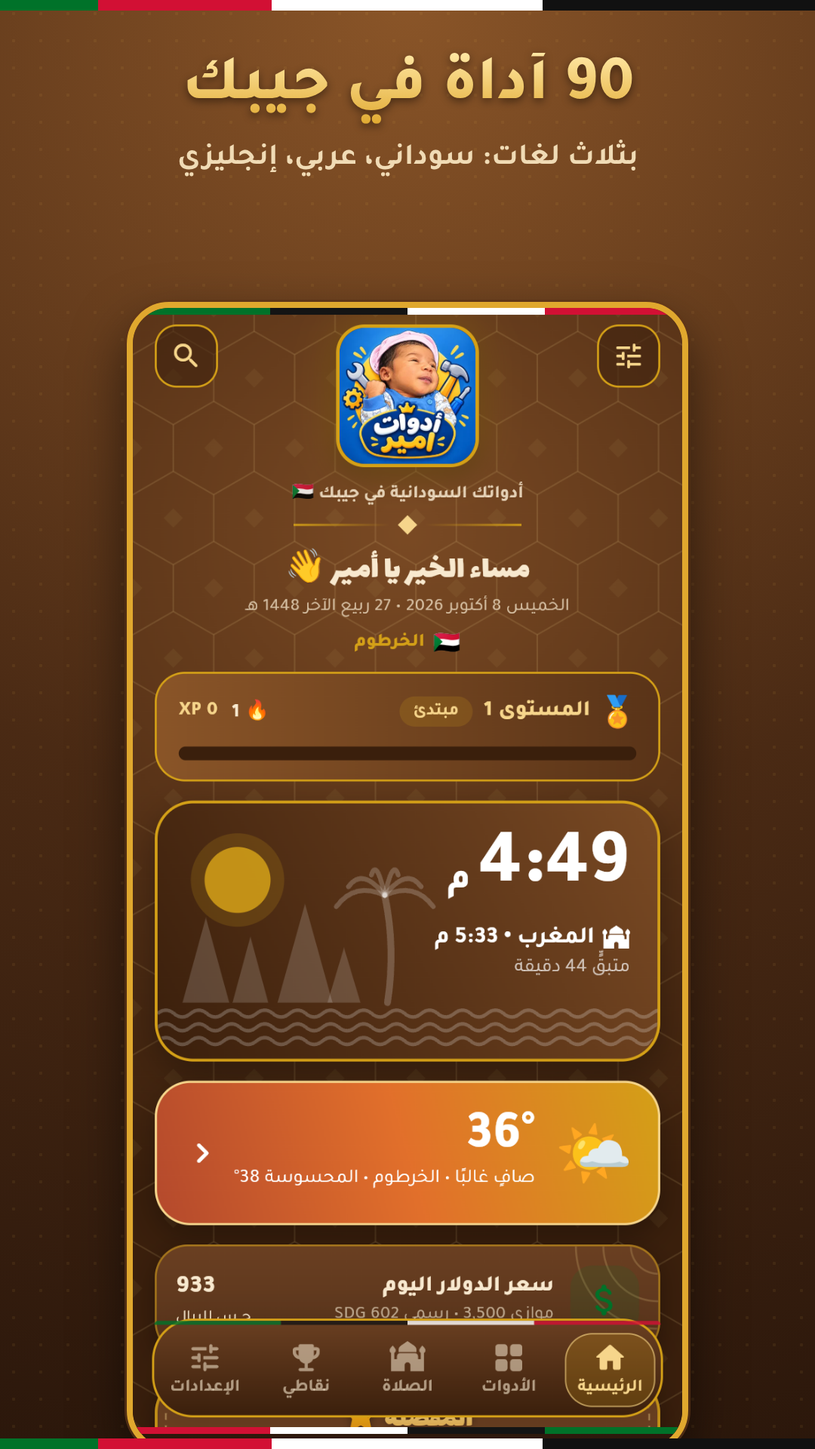
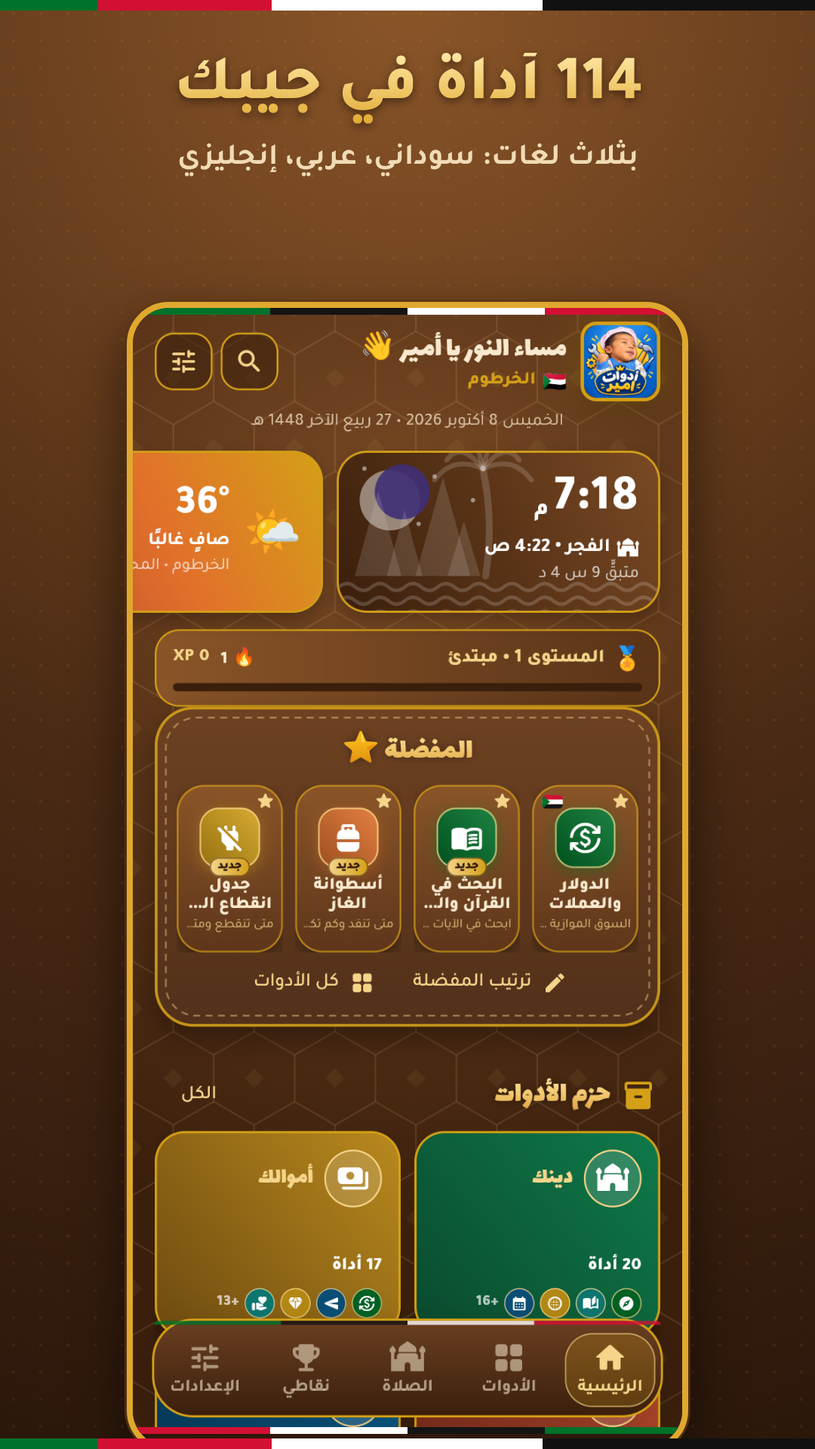
Store listing for 1.4.0: 114 tools, new screenshots, release notes; privacy policy covers Qur'an/hadith downloads
Claude-Session: https://claude.ai/code/session_01JTDZZY39xXosTgSmYpfkyN

diff --git a/amir_tools/store/privacy-policy.html b/amir_tools/store/privacy-policy.html
@@ -21,7 +21,7 @@
 
 <section>
   <h1>سياسة الخصوصية: أدوات أمير</h1>
-  <p class="muted">آخر تحديث: 7 أكتوبر 2026 • التطبيق: Ameer Tools (com.albushra.amir_tools) • المطوّر: البشرى للتقنية</p>
+  <p class="muted">آخر تحديث: 8 أكتوبر 2026 • التطبيق: Ameer Tools (com.albushra.amir_tools) • المطوّر: البشرى للتقنية</p>
 
   <h2>الخلاصة</h2>
   <p>لا نطلب تسجيل دخول، ولا نعرض إعلانات، ولا نستخدم أدوات تتبّع أو تحليلات، ولا نملك خوادم تُحفظ فيها بياناتك. كل ما تُدخله في التطبيق يُحفظ على جهازك فقط.</p>
@@ -34,7 +34,7 @@
   <ul>
     <li><b>Open-Meteo</b> (open-meteo.com): لجلب الطقس وجودة الهواء والبحث عن المدن. يُرسل إليها اسم المدينة أو إحداثياتها التقريبية فقط.</li>
     <li><b>ExchangeRate-API</b> (open.er-api.com): لجلب أسعار العملات الرسمية. لا تُرسل إليها أي بيانات عنك.</li>
-    <li><b>GitHub</b> (raw.githubusercontent.com): لتنزيل ملفات اللغة الخاصة بميزة استخراج النص من الصور، مرة واحدة فقط.</li>
+    <li><b>GitHub</b> (raw.githubusercontent.com): لتنزيل ملفات اللغة الخاصة بميزة استخراج النص من الصور، ونص المصحف والتفاسير وكتب الحديث عند أول استخدام لها فقط. لا يُرسل إليها أي بيانات عنك.</li>
   </ul>
   <p>كل الاتصالات مشفّرة عبر HTTPS.</p>
 
@@ -59,7 +59,7 @@
 
 <section dir="ltr" lang="en">
   <h1>Privacy Policy: Ameer Tools</h1>
-  <p class="muted">Last updated: 7 October 2026 • App: Ameer Tools (com.albushra.amir_tools) • Developer: Al-Bushra Technology</p>
+  <p class="muted">Last updated: 8 October 2026 • App: Ameer Tools (com.albushra.amir_tools) • Developer: Al-Bushra Technology</p>
 
   <h2>Summary</h2>
   <p>No sign-in, no ads, no tracking or analytics SDKs, and no servers that store your data. Everything you enter in the app stays on your device.</p>
@@ -72,7 +72,7 @@
   <ul>
     <li><b>Open-Meteo</b> (open-meteo.com): weather, air quality and city search. Only the city name or its approximate coordinates are sent.</li>
     <li><b>ExchangeRate-API</b> (open.er-api.com): official currency rates. No data about you is sent.</li>
-    <li><b>GitHub</b> (raw.githubusercontent.com): one-time download of language data for the text-from-image (OCR) feature.</li>
+    <li><b>GitHub</b> (raw.githubusercontent.com): one-time downloads of OCR language data and of the Qur'an text, tafsir and hadith books when you first open those tools. No data about you is sent.</li>
   </ul>
   <p>All connections are encrypted with HTTPS.</p>
 

diff --git a/docs/privacy-policy.html b/docs/privacy-policy.html
@@ -21,7 +21,7 @@
 
 <section>
   <h1>سياسة الخصوصية: أدوات أمير</h1>
-  <p class="muted">آخر تحديث: 7 أكتوبر 2026 • التطبيق: Ameer Tools (com.albushra.amir_tools) • المطوّر: البشرى للتقنية</p>
+  <p class="muted">آخر تحديث: 8 أكتوبر 2026 • التطبيق: Ameer Tools (com.albushra.amir_tools) • المطوّر: البشرى للتقنية</p>
 
   <h2>الخلاصة</h2>
   <p>لا نطلب تسجيل دخول، ولا نعرض إعلانات، ولا نستخدم أدوات تتبّع أو تحليلات، ولا نملك خوادم تُحفظ فيها بياناتك. كل ما تُدخله في التطبيق يُحفظ على جهازك فقط.</p>
@@ -34,7 +34,7 @@
   <ul>
     <li><b>Open-Meteo</b> (open-meteo.com): لجلب الطقس وجودة الهواء والبحث عن المدن. يُرسل إليها اسم المدينة أو إحداثياتها التقريبية فقط.</li>
     <li><b>ExchangeRate-API</b> (open.er-api.com): لجلب أسعار العملات الرسمية. لا تُرسل إليها أي بيانات عنك.</li>
-    <li><b>GitHub</b> (raw.githubusercontent.com): لتنزيل ملفات اللغة الخاصة بميزة استخراج النص من الصور، مرة واحدة فقط.</li>
+    <li><b>GitHub</b> (raw.githubusercontent.com): لتنزيل ملفات اللغة الخاصة بميزة استخراج النص من الصور، ونص المصحف والتفاسير وكتب الحديث عند أول استخدام لها فقط. لا يُرسل إليها أي بيانات عنك.</li>
   </ul>
   <p>كل الاتصالات مشفّرة عبر HTTPS.</p>
 
@@ -59,7 +59,7 @@
 
 <section dir="ltr" lang="en">
   <h1>Privacy Policy: Ameer Tools</h1>
-  <p class="muted">Last updated: 7 October 2026 • App: Ameer Tools (com.albushra.amir_tools) • Developer: Al-Bushra Technology</p>
+  <p class="muted">Last updated: 8 October 2026 • App: Ameer Tools (com.albushra.amir_tools) • Developer: Al-Bushra Technology</p>
 
   <h2>Summary</h2>
   <p>No sign-in, no ads, no tracking or analytics SDKs, and no servers that store your data. Everything you enter in the app stays on your device.</p>
@@ -72,7 +72,7 @@
   <ul>
     <li><b>Open-Meteo</b> (open-meteo.com): weather, air quality and city search. Only the city name or its approximate coordinates are sent.</li>
     <li><b>ExchangeRate-API</b> (open.er-api.com): official currency rates. No data about you is sent.</li>
-    <li><b>GitHub</b> (raw.githubusercontent.com): one-time download of language data for the text-from-image (OCR) feature.</li>
+    <li><b>GitHub</b> (raw.githubusercontent.com): one-time downloads of OCR language data and of the Qur'an text, tafsir and hadith books when you first open those tools. No data about you is sent.</li>
   </ul>
   <p>All connections are encrypted with HTTPS.</p>
 

diff --git a/amir_tools/lib/screens/privacy_screen.dart b/amir_tools/lib/screens/privacy_screen.dart
@@ -50,8 +50,8 @@ class PrivacyScreen extends StatelessWidget {
               'Open-Meteo: weather, air quality and city search. Only the city name or its approximate coordinates are sent.'),
           t('ExchangeRate-API: لأسعار العملات الرسمية. ما بنرسل ليها أي حاجة عنك.', 'ExchangeRate-API: لجلب أسعار العملات الرسمية. لا تُرسل إليها أي بيانات عنك.',
               'ExchangeRate-API: official currency rates. No data about you is sent.'),
-          t('GitHub: لتنزيل ملفات اللغة لاستخراج النص من الصور، مرة واحدة بس.', 'GitHub: لتنزيل ملفات اللغة الخاصة باستخراج النص من الصور، مرة واحدة فقط.',
-              'GitHub: one-time download of language data for text-from-image (OCR).'),
+          t('GitHub: لتنزيل ملفات اللغة لاستخراج النص، ونص المصحف والتفاسير والأحاديث، أول مرة بس.', 'GitHub: لتنزيل ملفات اللغة لاستخراج النص، ونص المصحف والتفاسير وكتب الحديث، عند أول استخدام فقط.',
+              'GitHub: one-time downloads of OCR language data and the Qur\'an, tafsir and hadith texts.'),
           t('كل الاتصالات مشفّرة (HTTPS).', 'كل الاتصالات مشفّرة عبر HTTPS.', 'All connections are encrypted with HTTPS.'),
         ]
       ),
@@ -96,7 +96,7 @@ class PrivacyScreen extends StatelessWidget {
       child: Scaffold(
         appBar: AppBar(title: Text(t('سياسة الخصوصية', 'سياسة الخصوصية', 'Privacy policy'))),
         body: ToolList(children: [
-          Text('${tr('آخر تحديث', 'Last updated')}: 2026-10-07 • Ameer Tools (com.albushra.amir_tools)',
+          Text('${tr('آخر تحديث', 'Last updated')}: 2026-10-08 • Ameer Tools (com.albushra.amir_tools)',
               textAlign: TextAlign.center, style: const TextStyle(fontSize: 12)),
           const SizedBox(height: 10),
           for (final (icon, color, title, paras) in sections)

diff --git a/amir_tools/store/PLAY_STORE_LISTING.md b/amir_tools/store/PLAY_STORE_LISTING.md
@@ -9,8 +9,8 @@
 | البند | القيمة |
 |---|---|
 | اسم الحزمة (Package name) | `com.albushra.amir_tools` (لا يتغيّر بعد أول رفع) |
-| رقم النسخة (versionName) | **1.3.0** |
-| رمز النسخة (versionCode) | **4** (لازم يزيد مع كل رفع جديد: 5، 6، …) |
+| رقم النسخة (versionName) | **1.4.0** |
+| رمز النسخة (versionCode) | **6** (لازم يزيد مع كل رفع جديد: 7، 8، …) |
 | اسم التطبيق على الهاتف | `Ameer Tools 🔧` |
 | اسم التطبيق في المتجر (Title) | **`Ameer Tools - أدوات أمير`** (24 حرف) |
 | اسم المطوّر | البشرى للتقنية / Al-Bushra Technology |
@@ -27,7 +27,7 @@
 **بدائل للعنوان (كلها أقل من 30 حرف):**
 - `Ameer Tools - أدوات أمير` ← المقترح
 - `أدوات أمير - Ameer Tools`
-- `Ameer Tools: 90 أداة في جيبك`
+- `Ameer Tools: 114 أداة في جيبك`
 
 ---
 
@@ -35,12 +35,12 @@
 
 **عربي:**
 ```
-90 أداة في تطبيق واحد: صلاة، عملات، غاز، قطوعات، صحة، ودجت، بثلاث لغات
+114 أداة في تطبيق واحد: قرآن، صلاة، عملات، غاز، صحة، أمان، ودجت، بثلاث لغات
 ```
 
 **English:**
 ```
-90 handy tools in one app: prayer, currency, gas, power cuts, health & widgets
+114 tools in one app: Qur'an, prayer, currency, gas, health, safety & widgets
 ```
 
 ---
@@ -49,52 +49,44 @@
 
 ### عربي
 ```
-أدوات أمير: 90 أداة مفيدة في تطبيق واحد، بطابع سوداني أصيل وألوان التراث، وتشتغل في أي مكان في العالم.
+أدوات أمير: 114 أداة مفيدة في تطبيق واحد، مرتّبة في 6 حزم، بطابع سوداني أصيل وألوان التراث، وتشتغل في أي مكان في العالم.
 بثلاث لغات: سوداني، عربي فصيح، وإنجليزي. وأغلب الأدوات تشتغل بدون إنترنت.
 
 🧩 ودجت للشاشة الرئيسية
 • أدواتك المفضلة • الصلاة القادمة مع عدّاد تنازلي • أسطوانة الغاز • قطوعات الكهرباء • سعر الدولار
 
-🕌 الدين
-• مواقيت الصلاة لأي مدينة (11 طريقة حساب) وتنبيه الأذان، والقبلة
-• الأذكار، والمسبحة، ومكتبة الأدعية، وأسماء الله الحسنى
-• ختمة القرآن، وحفظ القرآن ومراجعته، وثلث الليل الأخير
-• متتبع الصيام، والمواقيت الشهرية، ومحوّل التواريخ (هجري، قبطي، إثيوبي)، والمناسبات
-• المواريث، والزكاة، والأضحية والعقيقة، والفدية والكفارات
+🕌 دينك
+• مواقيت الصلاة لأي مدينة (11 طريقة حساب) وتنبيه الأذان، والقبلة، والأذكار، والمسبحة، والأدعية، وأسماء الله الحسنى
+• البحث في القرآن مع التفسير الميسّر والجلالين، والأحاديث (الأربعون النووية والقدسية والكتب الستة والموطأ) مع درجة الحديث
+• ختمة القرآن، وحفظ القرآن ومراجعته، وبطاقات مشاركة الآيات والأذكار
+• دليل الحج والعمرة، وثلث الليل الأخير، ومتتبع الصيام، ومحوّل التواريخ (هجري، قبطي، إثيوبي)
+• المواريث، والزكاة، والأضحية والعقيقة، والفدية والكفارات، والصدقة الشهرية
 
-💰 المال والسوق
+💰 فلوسك
 • الدولار والعملات بالسعر الموازي والرسمي، وتحويلات المغتربين، والذهب
-• ميزانية الشهر، وميزانية الزفاف، ودفتر المحل (المخزون والأرباح)
-• الأقساط والمرابحة، والنسب والضريبة، والكهرباء والطاقة الشمسية
-• تقسيم الحساب، وتفقيط المبالغ، وأيهما أوفر، وتكلفة الرحلة، ومحوّل الوحدات
+• ميزانية الشهر، والادخار للأهداف، وميزانية الزفاف، ودفتر المحل، ومقارنة سلة المشتريات
+• الأقساط والمرابحة، والنسب والضريبة، والكهرباء والطاقة الشمسية، وتقسيم الحساب، وتفقيط المبالغ
 
-🏠 البيت والعربية
-• أسطوانة الغاز: متى تنفد وكم تكلّف
-• جدول انقطاع الكهرباء مع تنبيه قبل القطع
-• المولّد والوقود، وصيانة السيارة، وصلاحية مخزن البيت
-• قائمة المشتريات، والفواتير الشهرية، وحاسبة مواد البناء، وحاسبة الزراعة
+🏠 بيتك وأسرتك
+• أسطوانة الغاز، وجدول انقطاع الكهرباء، والمولّد والوقود، وصيانة السيارة، وصلاحية مخزن البيت
+• مخطط وجبات الأسرة بأكلات سودانية، وقائمة المشتريات، والفواتير الشهرية، ومواد البناء، والزراعة
+• السجل الصحي العائلي، واللقاحات والفحوصات، ورعاية كبار السن، ومواعيد الدواء، والحمل، ونمو الطفل
+• الإسعافات الأولية، وأرقام الطوارئ، وسجل السكر والضغط، والماء، والنوم
+• العادات، والمهام، والمصروفات، والديون، والصندوق، والملاحظات
 
-💼 الشغل والغربة
-• الراتب ونهاية الخدمة، وتذكير انتهاء المستندات، وعبارات المغترب، وفاتورة سريعة، وقائمة تجهيز السفر
+💼 شغلك وقرايتك
+• منشئ السيرة الذاتية (PDF عربي وإنجليزي)، والراتب ونهاية الخدمة، وتذكير المستندات، وفاتورة سريعة
+• عبارات المغترب، والمصطلحات الرسمية، وروابط الجهات الرسمية، ومخطط الرحلة، وقائمة تجهيز السفر
+• جدول المذاكرة، وبطاقات المذاكرة، ونسبة الشهادة السودانية، وجدول الضرب، وقاموس اللهجة السودانية
 
-❤ الصحة والعائلة
-• حاسبة الصحة، والحمل، ونمو الطفل، ومواعيد الدواء، وسجل السكر والضغط، والماء، والنوم والمزاج
-
-📚 التعليم والترفيه
-• نسبة الشهادة السودانية، وبطاقات المذاكرة، وجدول الضرب للأطفال
+☀ يومك وونستك
+• حاسبة العمر بالتفصيل، والآلة الحاسبة، والمؤقت، والتركيز، والقرعة، وساعات العالم، والطقس والغبار، والعطل الرسمية، والأمثال السودانية
 • حاسبة نقاط الورق (كونكان وهاند)، والدومينو وتقسيم الفرق
 
-☀ اليوميات والتنظيم
-• حاسبة العمر بالتفصيل الدقيق، والآلة الحاسبة، والمؤقت، والتركيز، والقرعة، وساعات العالم، والمعدل الدراسي، والطقس والغبار، والأمثال السودانية
-• متتبع العادات، والمهام، والمصروفات، والديون، والصندوق، والعدّاد، والملاحظات السريعة
-
-✍ النصوص والصور
-• مساعد الكاتب للقصص والشخصيات والفصول
-• استخراج النص من الصور، وزخرفة النصوص، والصور إلى PDF، ومسجّل الصوت
-• رمز QR، وكلمات السر، والخزنة السرية، وضغط الصور
-
-📱 الجهاز
-• الكشاف، والبوصلة، وميزان الماء، والمسطرة، ومقياس الضوضاء، والمرآة، ومعلومات هاتفك
+🛡 تقنية وأمان
+• فاحص الروابط المزيّفة، وتنبيهات الاحتيال، والتحقق من الأخبار، وحماية حساباتك
+• استخراج النص من الصور، وزخرفة النصوص، والصور إلى PDF، ومسجّل الصوت، ومساعد الكاتب
+• رمز QR، وكلمات السر، والخزنة السرية، وضغط الصور، والكشاف، والبوصلة، والمرآة، والمسطرة
 
 ⭐ نقاط ومستويات وإنجازات، ومفضلة، وقفل برقم سري، ونسخة احتياطية، ووضع ليلي.
 
@@ -105,52 +97,44 @@
 
 ### English
 ```
-Ameer Tools: 90 useful tools in one app, with a warm Sudanese heritage design, and it works anywhere in the world.
+Ameer Tools: 114 useful tools in one app, organised into 6 bundles, with a warm Sudanese heritage design. Works anywhere in the world.
 Three languages: Sudanese Arabic, Standard Arabic and English. Most tools work offline.
 
 🧩 HOME-SCREEN WIDGETS
 • Favourite tools • Next prayer with live countdown • Gas cylinder • Power cuts • Dollar rate
 
 🕌 FAITH
-• Prayer times for any city (11 methods) with adhan alerts, and qibla
-• Adhkar, tasbih, duas library and the 99 Names of Allah
-• Qur'an khatma, Qur'an memorization & review, last third of the night
-• Fasting tracker, monthly timetable, date converter (Hijri, Coptic, Ethiopian), occasions
-• Inheritance, zakat, udhiya & aqiqa, fidya & kaffarat
+• Prayer times for any city (11 methods) with adhan alerts, qibla, adhkar, tasbih, duas, 99 Names
+• Qur'an search with Tafsir al-Muyassar & al-Jalalayn; hadith collections (Nawawi's 40, Qudsi, the six books, Muwatta) with gradings
+• Khatma planner, Qur'an memorization & review, verse and dhikr share cards
+• Hajj & Umrah guide, last third of the night, fasting tracker, date converter (Hijri, Coptic, Ethiopian)
+• Inheritance, zakat, udhiya & aqiqa, fidya & kaffarat, monthly sadaqa planner
 
 💰 MONEY
 • Currencies with parallel and official rates, expat remittances, gold
-• Monthly budget, wedding budget, shop ledger (stock & profit)
-• Installments & murabaha, percent & tax, power & solar
-• Bill splitter, amount in words, best price, trip cost, unit converter
+• Monthly budget, savings goals, wedding budget, shop ledger, basket price compare
+• Installments & murabaha, percent & tax, power & solar, bill splitter, amount in words
 
-🏠 HOME & CAR
-• Gas cylinder: when it runs out and what it costs
-• Power-cut schedule with alerts before each cut
-• Generator & fuel, car maintenance, pantry expiry
-• Shopping list, monthly bills, building materials, farm calculator
+🏠 HOME & FAMILY
+• Gas cylinder, power-cut schedule, generator & fuel, car maintenance, pantry expiry
+• Family meal planner with Sudanese dishes, shopping list, monthly bills, building and farm calculators
+• Family health record, vaccines & check-ups, elder care, medicine reminders, pregnancy, child growth
+• First aid guide, emergency numbers, glucose & BP log, water, sleep
+• Habits, tasks, expenses, debts, savings circle, notes
 
-💼 WORK & ABROAD
-• Salary & end of service, document expiry reminders, expat phrasebook, quick invoice, travel packing list
+💼 WORK & STUDY
+• CV builder (Arabic & English PDF), salary & end of service, document reminders, quick invoice
+• Expat phrasebook, official terms glossary, official links, trip planner, travel packing list
+• Study planner, flashcards, Sudan school certificate %, times tables, Sudanese dialect dictionary
 
-❤ HEALTH & FAMILY
-• Health calculator, pregnancy, child growth, medicine reminders, glucose & BP log, water, sleep & mood
-
-📚 LEARNING & FUN
-• Sudan school certificate %, flashcards, times tables for kids
+☀ DAILY & FUN
+• Detailed age calculator, calculator, timer, focus, random draw, world clock, weather & dust, public holidays, Sudanese proverbs
 • Card game scores (Konkan, Hand), dominoes & team split
 
-☀ DAILY & ORGANISE
-• Detailed age calculator, calculator, timer, focus, random draw, world clock, GPA, weather & dust, Sudanese proverbs
-• Habits, tasks, expenses, debts, savings circle, tally counter, quick notes
-
-✍ TEXT & IMAGES
-• Writer's Studio for stories, characters and chapters
-• Text from image (OCR), text decoration, images to PDF, voice recorder
-• QR codes, passwords, secret vault, image compressor
-
-📱 DEVICE
-• Flashlight, compass, spirit level, ruler, noise meter, mirror, phone info
+🛡 TECH & SAFETY
+• Fake-link checker, scam alerts, news verification, account security
+• Text from image (OCR), text decoration, images to PDF, voice recorder, Writer's Studio
+• QR codes, passwords, secret vault, image compressor, flashlight, compass, mirror, ruler
 
 ⭐ Points, levels and achievements, favourites, PIN lock, backup and dark mode.
 
@@ -161,19 +145,24 @@ By Al-Bushra Technology.
 
 ---
 
-## 4) ملاحظات الإصدار (Release notes, 500 حرف لكل لغة)
+## 4) ملاحظات الإصدار 1.4.0 (Release notes, 500 حرف لكل لغة)
 
-ألصقها في Play Console بهذا الشكل (الوسوم مطلوبة):
 ```
 <ar>
-• 22 أداة جديدة: الغاز، المولّد، صيانة السيارة، قطوعات الكهرباء، ميزانية الزفاف، دفتر المحل، حفظ القرآن، الكوتشينة وغيرها
-• ودجت للشاشة الرئيسية: المفضلة، الصلاة، الغاز، القطوعات، الدولار
-• الصور إلى PDF، ومسجّل الصوت، والملاحظات
+• واجهة جديدة: 6 حزم مرتّبة وبحث أذكى
+• القرآن: البحث مع التفسير، والأحاديث بدرجاتها، وبطاقات مشاركة
+• صحة الأسرة: السجل الصحي، اللقاحات، رعاية كبار السن، الإسعافات الأولية، أرقام الطوارئ
+• منشئ السيرة الذاتية، الادخار للأهداف، مخطط الوجبات والرحلات والمذاكرة
+• الأمان الرقمي: فاحص الروابط وتنبيهات الاحتيال
+• قاموس اللهجة السودانية وروابط الجهات الرسمية
 </ar>
 <en-US>
-• 22 new tools: gas cylinder, generator, car care, power cuts, wedding budget, shop ledger, Qur'an memorization, card scores and more
-• Home-screen widgets: favorites, prayer, gas, power cuts, dollar
-• Images to PDF, voice recorder and notes
+• New home: 6 tidy bundles and smarter search
+• Qur'an search with tafsir, graded hadith, share cards
+• Family health: records, vaccines, elder care, first aid, emergency numbers
+• CV builder, savings goals, meal, trip and study planners
+• Digital safety: link checker and scam alerts
+• Sudanese dialect dictionary and official links
 </en-US>
 ```
 
@@ -188,20 +177,20 @@ By Al-Bushra Technology.
 | أيقونة التطبيق (App icon) | `icon_512.png` | 512×512 |
 | صورة العرض (Feature graphic) – عربي | `ar/feature_graphic_1024x500.png` | 1024×500 |
 | صورة العرض – إنجليزي | `en/feature_graphic_1024x500.png` | 1024×500 |
-| لقطات الهاتف – عربي | `ar/01_home.png` … `ar/08_cards.png` | 1080×1920 (8 صور) |
-| لقطات الهاتف – إنجليزي | `en/01_home.png` … `en/08_cards.png` | 1080×1920 (8 صور) |
+| لقطات الهاتف – عربي | `ar/01_home.png` … `ar/08_link_check.png` | 1080×1920 (8 صور) |
+| لقطات الهاتف – إنجليزي | `en/01_home.png` … `en/08_link_check.png` | 1080×1920 (8 صور) |
 
 **ترتيب اللقطات:**
-1. الرئيسية: «90 أداة في جيبك»
-2. كل الأدوات: «90 أداة في 11 قسم»
+1. الرئيسية: «114 أداة في جيبك»
+2. حزم الأدوات الست
 3. ودجت الشاشة الرئيسية
-4. مواقيت الصلاة
-5. أسطوانة الغاز
-6. جدول انقطاع الكهرباء
-7. ميزانية الزفاف
-8. حاسبة الكوتشينة
+4. صفحة الحزمة (دينك)
+5. البحث في القرآن والتفسير
+6. الإسعافات الأولية
+7. قاموس اللهجة السودانية
+8. فاحص الروابط
 
-> عند تحديث المتجر: احذف اللقطات القديمة (8 صور) وارفع الجديدة بنفس الترتيب، واستبدل صورة العرض.
+> عند التحديث: احذف اللقطات القديمة وارفع الجديدة بنفس الترتيب، واستبدل صورة العرض.
 
 ---
 
@@ -287,7 +276,7 @@ https://aladeen35.github.io/test/privacy-policy.html
 | News app | **No** |
 | Government app | **No** |
 | Financial features | **My app doesn't provide any financial features** (الحاسبات ما بتقدّم خدمات مالية فعلية) |
-| Health apps | اختر: **Health & fitness**، و**Medication & treatment management** (مواعيد الدواء)، و**Reproductive health** (حاسبة الحمل)، ووضّح أنها أدوات حساب وتذكير شخصية وليست جهازًا طبيًا |
+| Health apps | اختر: **Health & fitness**، و**Medication & treatment management** (مواعيد الدواء)، و**Reproductive health** (حاسبة الحمل)، و**Medical reference and education** (الإسعافات الأولية)، و**Health records** (السجل الصحي العائلي — محفوظ على الجهاز فقط)، ووضّح أنها أدوات حساب وتذكير شخصية وليست جهازًا طبيًا |
 | COVID-19 tracing | **No** |
 | Data safety | حسب القسم 7 |
 | Advertising ID | **No** (التطبيق لا يستخدمه) |
@@ -301,7 +290,7 @@ https://aladeen35.github.io/test/privacy-policy.html
 ### أ) الملف الموقّع الجاهز للرفع
 نزّل الملف الموقّع بمفتاح الرفع الثابت (`upload`) من هنا، وارفعه مباشرة:
 ```
-https://github.com/aladeen35/test/raw/ccr-56d19381-tk4i0e/release/AmeerTools-1.3.0-4-signed.aab
+https://github.com/aladeen35/test/raw/ccr-56d19381-tk4i0e/release/AmeerTools-1.4.0-6-signed.aab
 ```
 > ملفات صفحة الإصدارات (latest-build) موقّعة بمفتاح التجربة، **لا ترفعها لقوقل**. لو أضفت الأسرار الأربعة في GitHub (`KEYSTORE_BASE64`، `KEYSTORE_PASSWORD`، `KEY_PASSWORD`، `KEY_ALIAS`) يصير كل بناء جديد موقّعًا تلقائيًا.
 >
